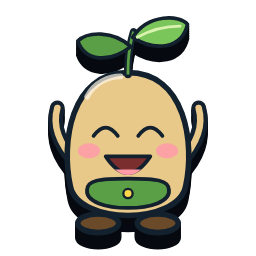
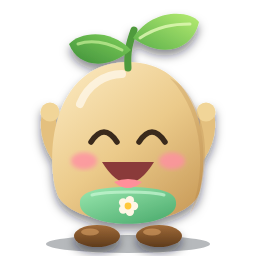
Sprig redessiné : graine dodue, yeux brillants, salopette menthe, sans contour sombre
Claude-Session: https://claude.ai/code/session_013EccGmGcBAAqujeLGmWbCi

diff --git a/Design/Characters/generate_sprig.py b/Design/Characters/generate_sprig.py
@@ -1,57 +1,95 @@
 #!/usr/bin/env python3
-"""Sprig, the garden guide: a little seed sprite with a sprout on its head. 4 expressions -> Assets/Resources/Characters/Sprig_<Expr>.png"""
+"""Sprig, the garden guide: a little seed sprite with a sprout on its head, drawn in the garden style (no dark outline: soft gradients, a soft shadow, glossy eyes).
+4 expressions -> Sprig_<Expr>.svg here and Assets/Resources/Characters/Sprig_<Expr>.png (256 px, rendered with Playwright: NODE_PATH=$(npm root -g) python3 generate_sprig.py)."""
 import os, subprocess
-O = '#13212e'
+
 OUT = '../../Assets/Resources/Characters'
-CHROME = '/opt/pw-browsers/chromium-1194/chrome-linux/chrome'
-S = 'stroke="%s" stroke-width="6" stroke-linejoin="round" stroke-linecap="round"' % O
-S4 = S.replace('6"', '4"', 1)
+INK = '#3a2a1c'
+DEFS = ('<defs>'
+        '<linearGradient id="body" x1="0.15" y1="0" x2="0.9" y2="1"><stop offset="0" stop-color="#fbe8bd"/><stop offset="0.5" stop-color="#ebca8a"/><stop offset="1" stop-color="#c89a58"/></linearGradient>'
+        '<linearGradient id="bib" x1="0" y1="0" x2="0.8" y2="1"><stop offset="0" stop-color="#9be8b0"/><stop offset="1" stop-color="#4fae70"/></linearGradient>'
+        '<linearGradient id="boot" x1="0" y1="0" x2="0" y2="1"><stop offset="0" stop-color="#a06a38"/><stop offset="1" stop-color="#5e3b1c"/></linearGradient>'
+        '<linearGradient id="leafA" x1="0" y1="1" x2="1" y2="0"><stop offset="0" stop-color="#5bb04a"/><stop offset="1" stop-color="#b6ec72"/></linearGradient>'
+        '<linearGradient id="leafB" x1="0" y1="1" x2="1" y2="0"><stop offset="0" stop-color="#3f8f3a"/><stop offset="1" stop-color="#7fd05a"/></linearGradient>'
+        '<filter id="soft" x="-20%" y="-15%" width="140%" height="140%"><feDropShadow dx="0" dy="6" stdDeviation="5" flood-color="#0c1620" flood-opacity="0.5"/></filter>'
+        '<filter id="blur"><feGaussianBlur stdDeviation="2.2"/></filter>'
+        '</defs>')
+
+def eyes(look=0, sad=False):
+    out = ''
+    for cx in (104, 152):
+        out += '<ellipse cx="%d" cy="136" rx="13.5" ry="16.5" fill="#fffdf5"/>' % cx
+        out += '<ellipse cx="%d" cy="%d" rx="9" ry="10.5" fill="%s"/>' % (cx + 1, 139 + look, INK)
+        out += '<circle cx="%d" cy="%d" r="3.6" fill="#fff"/><circle cx="%d" cy="%d" r="1.8" fill="#fff" opacity="0.85"/>' % (cx + 4, 134 + look, cx - 2, 143 + look)
+    return out
+
+def cheeks():
+    return ('<g filter="url(#blur)"><ellipse cx="84" cy="161" rx="13" ry="8.5" fill="#ff8fa3" opacity="0.8"/><ellipse cx="172" cy="161" rx="13" ry="8.5" fill="#ff8fa3" opacity="0.8"/></g>')
 
 def face(expr):
-    cheeks = '<ellipse cx="86" cy="158" rx="12" ry="8" fill="#ff9aa8" opacity="0.85"/><ellipse cx="170" cy="158" rx="12" ry="8" fill="#ff9aa8" opacity="0.85"/>'
-    def eyes(dy=0, pupil_dy=0):
-        e = ''
-        for cx in (104, 152):
-            e += '<ellipse cx="%d" cy="%d" rx="12" ry="15" fill="#fff7e8" stroke="%s" stroke-width="4"/>' % (cx, 138 + dy, O)
-            e += '<circle cx="%d" cy="%d" r="7" fill="%s"/><circle cx="%d" cy="%d" r="2.5" fill="#fff"/>' % (cx + 1, 140 + dy + pupil_dy, O, cx + 3, 136 + dy)
-        return e
     if expr == 'Happy':
-        return eyes() + cheeks + '<path d="M110 166 Q128 186 146 166" fill="#7a2e2e" %s/>' % S4
+        return eyes() + cheeks() + '<path d="M108 165 Q128 192 148 165 Q128 174 108 165 Z" fill="#8a3a3a"/><path d="M116 176 Q128 185 140 176 Q128 172 116 176 Z" fill="#ff8f9a"/>'
     if expr == 'Neutral':
-        return eyes() + cheeks + '<ellipse cx="128" cy="172" rx="8" ry="9" fill="#7a2e2e" stroke="%s" stroke-width="4"/>' % O
+        return eyes() + cheeks() + '<ellipse cx="128" cy="173" rx="7.5" ry="8.5" fill="#8a3a3a"/><ellipse cx="128" cy="177" rx="4.5" ry="3.5" fill="#ff8f9a"/>'
     if expr == 'Sad':
-        brows = '<path d="M88 124 L116 112 M168 124 L140 112" stroke="%s" stroke-width="5" stroke-linecap="round"/>' % O
-        tear = '<path d="M168 156 C162 168 174 168 168 156Z" fill="#7cc7e8" stroke="%s" stroke-width="2.5"/>' % O
-        return eyes(pupil_dy=3) + brows + cheeks + '<path d="M112 178 Q128 164 144 178" fill="none" %s/>' % S4 + tear
-    if expr == 'Cheer':
-        arcs = ''.join('<path d="M%d 142 Q%d 124 %d 142" fill="none" %s/>' % (cx - 13, cx, cx + 13, S4) for cx in (104, 152))
-        return arcs + cheeks + '<path d="M104 164 Q128 200 152 164Z" fill="#7a2e2e" %s/><path d="M114 178 Q128 190 142 178" fill="#ff9aa8"/>' % S4
+        brows = '<path d="M88 122 L116 112 M168 122 L140 112" stroke="#6a4424" stroke-width="5" stroke-linecap="round"/>'
+        tear = '<path d="M170 158 C164 170 176 170 170 158 Z" fill="#8fd6f5"/>'
+        return eyes(look=3) + brows + cheeks() + '<path d="M112 180 Q128 164 144 180" fill="none" stroke="#8a3a3a" stroke-width="5" stroke-linecap="round"/>' + tear
+    # Cheer: eyes shut in joy, a big open mouth
+    arcs = ''.join('<path d="M%d 142 Q%d 122 %d 142" fill="none" stroke="%s" stroke-width="5.5" stroke-linecap="round"/>' % (cx - 13, cx, cx + 13, INK) for cx in (104, 152))
+    return arcs + cheeks() + '<path d="M102 162 Q128 204 154 162 Z" fill="#8a3a3a"/><path d="M114 182 Q128 194 142 182 Q128 176 114 182 Z" fill="#ff8f9a"/>'
+
+def arms(expr):
+    left, right = {'Cheer': ('M72 172 Q42 142 50 112', 'M184 172 Q214 142 206 112'),
+                   'Sad': ('M74 180 Q62 206 70 222', 'M182 180 Q194 206 186 222')}.get(expr, ('M72 178 Q50 190 54 214', 'M184 178 Q206 190 202 214'))
+    out = ''
+    for d in (left, right):
+        out += '<path d="%s" fill="none" stroke="#e4c07e" stroke-width="15" stroke-linecap="round"/>' % d
+        # a little hand at the end of the arm
+        x, y = d.split()[-2], d.split()[-1]
+        out += '<circle cx="%s" cy="%s" r="9.5" fill="#f1d598"/>' % (x, y)
+    return out
 
 def svg(expr):
-    arms = {'Cheer': ('M72 170 Q44 140 52 112', 'M184 170 Q212 140 204 112'),
-            'Sad': ('M74 178 Q62 204 70 220', 'M182 178 Q194 204 186 220')}.get(expr, ('M72 176 Q50 188 54 212', 'M184 176 Q206 188 202 212'))
-    body = ('<ellipse cx="96" cy="236" rx="22" ry="10" fill="#6b4a2a" %s/><ellipse cx="160" cy="236" rx="22" ry="10" fill="#6b4a2a" %s/>' % (S, S) +
-            '<path d="%s" fill="none" stroke="%s" stroke-width="16" stroke-linecap="round"/><path d="%s" fill="none" stroke="%s" stroke-width="16" stroke-linecap="round"/>' % (arms[0], O, arms[1], O) +
-            '<path d="%s" fill="none" stroke="#e8c98a" stroke-width="7" stroke-linecap="round"/><path d="%s" fill="none" stroke="#e8c98a" stroke-width="7" stroke-linecap="round"/>' % (arms[0], arms[1]) +
-            '<path d="M128 74 C190 74 200 150 190 196 C182 238 74 238 66 196 C56 150 66 74 128 74Z" fill="#e8c98a" %s/>' % S +
-            '<path d="M84 100 C92 84 108 78 120 78" fill="none" stroke="#fff7e8" stroke-width="6" stroke-linecap="round" opacity="0.7"/>' +
-            # overalls bib
-            '<path d="M84 200 C84 190 96 188 128 188 C160 188 172 190 172 200 C176 226 80 226 84 200Z" fill="#5a9e45" %s/>' % S4 +
-            '<circle cx="128" cy="204" r="5" fill="#ffd54a" stroke="%s" stroke-width="2.5"/>' % O +
-            # sprout
-            '<path d="M128 76 C128 54 130 44 134 30" fill="none" %s/>' % S.replace('stroke-width="6"', 'stroke-width="8"') +
-            '<path d="M128 76 C128 54 130 44 134 30" fill="none" stroke="#5a9e45" stroke-width="3"/>' +
-            '<path d="M133 36 C150 10 184 12 192 22 C186 48 158 52 133 36Z" fill="#7bc65a" %s/><path d="M138 36 C156 26 170 24 184 24" fill="none" stroke="#d9f2b0" stroke-width="3" stroke-linecap="round"/>' % S4 +
-            '<path d="M131 46 C112 28 84 30 74 40 C82 62 108 64 131 46Z" fill="#5a9e45" %s/>' % S4 +
-            face(expr))
-    return '<svg xmlns="http://www.w3.org/2000/svg" viewBox="0 0 256 256" width="256" height="256">%s</svg>' % body
+    body = (
+        '<ellipse cx="128" cy="244" rx="82" ry="9" fill="#0c1620" opacity="0.3"/>'
+        '<g filter="url(#soft)">'
+        '<ellipse cx="97" cy="236" rx="23" ry="11" fill="url(#boot)"/><ellipse cx="159" cy="236" rx="23" ry="11" fill="url(#boot)"/>'
+        '<ellipse cx="90" cy="232" rx="9" ry="3.5" fill="#d9a066" opacity="0.6"/><ellipse cx="152" cy="232" rx="9" ry="3.5" fill="#d9a066" opacity="0.6"/>'
+        + arms(expr) +
+        '<path d="M128 62 C196 62 212 140 200 190 C192 232 64 232 56 190 C44 140 60 62 128 62 Z" fill="url(#body)"/>'
+        '<path d="M170 78 C206 116 206 176 190 214 C202 196 214 150 196 108 C190 94 182 84 170 78 Z" fill="#a8763a" opacity="0.22"/>'
+        '<path d="M80 104 C88 84 106 74 122 74" fill="none" stroke="#fffaf0" stroke-width="8" stroke-linecap="round" opacity="0.7"/>'
+        # overalls: a bib with a little flower pocket
+        '<path d="M80 202 C80 192 98 187 128 187 C158 187 176 192 176 202 C180 231 76 231 80 202 Z" fill="url(#bib)"/><path d="M92 195 C106 191 150 191 164 195" fill="none" stroke="#c9f6d4" stroke-width="3" stroke-linecap="round" opacity="0.7"/>'
+        '<g transform="translate(128 206)">' + ''.join('<circle cx="%g" cy="%g" r="4.2" fill="#fff6e6"/>' % (6 * __import__('math').cos(__import__('math').radians(a)), 6 * __import__('math').sin(__import__('math').radians(a))) for a in range(0, 360, 72)) + '<circle r="3.4" fill="#ffc83a"/></g>'
+        # the sprout
+        '<path d="M128 68 C127 52 129 44 134 30" fill="none" stroke="#4f9a3c" stroke-width="7" stroke-linecap="round"/>'
+        '<path d="M133 38 C152 8 190 10 199 22 C192 52 160 58 133 38 Z" fill="url(#leafA)"/><path d="M140 38 C158 26 174 24 190 24" fill="none" stroke="#e4f9b8" stroke-width="3" stroke-linecap="round" opacity="0.8"/>'
+        '<path d="M131 50 C110 28 80 32 69 44 C78 68 108 70 131 50 Z" fill="url(#leafB)"/><path d="M122 50 C106 42 90 40 78 44" fill="none" stroke="#c9f09a" stroke-width="3" stroke-linecap="round" opacity="0.7"/>'
+        '</g>' + face(expr))
+    return '<svg xmlns="http://www.w3.org/2000/svg" viewBox="0 0 256 256" width="256" height="256">%s%s</svg>\n' % (DEFS, body)
 
-os.makedirs(OUT, exist_ok=True)
-for e in ['Happy', 'Neutral', 'Sad', 'Cheer']:
-    s = svg(e)
-    open('Sprig_%s.svg' % e, 'w').write(s)
-    open('_s.html', 'w').write('<html><body style="margin:0;background:transparent">%s</body></html>' % s)
-    subprocess.run([CHROME, '--headless', '--no-sandbox', '--disable-gpu', '--hide-scrollbars', '--default-background-color=00000000',
-                    '--window-size=256,556', '--screenshot=_s.png', 'file://' + os.path.abspath('_s.html')], stdout=subprocess.DEVNULL, stderr=subprocess.DEVNULL)
-    subprocess.run(['convert', '_s.png', '-crop', '256x256+0+0', '+repage', '%s/Sprig_%s.png' % (OUT, e)])
-os.remove('_s.html'); os.remove('_s.png')
+if __name__ == '__main__':
+    os.makedirs(OUT, exist_ok=True)
+    names = ['Happy', 'Neutral', 'Sad', 'Cheer']
+    for e in names:
+        open('Sprig_%s.svg' % e, 'w').write(svg(e))
+    js = """
+const { chromium } = require('playwright');
+const fs = require('fs');
+(async () => {
+  const b = await chromium.launch();
+  const p = await b.newPage({ viewport: { width: 256, height: 256 }, deviceScaleFactor: 1 });
+  for (const e of %s) {
+    await p.setContent('<html><body style="margin:0;background:transparent">' + fs.readFileSync('Sprig_' + e + '.svg', 'utf8') + '</body></html>');
+    await p.screenshot({ path: '%s/Sprig_' + e + '.png', omitBackground: true, clip: { x: 0, y: 0, width: 256, height: 256 } });
+  }
+  await b.close();
+})();
+""" % (names, OUT)
+    open('_render.js', 'w').write(js)
+    env = dict(os.environ, NODE_PATH=subprocess.check_output(['npm', 'root', '-g']).decode().strip())
+    subprocess.run(['node', '_render.js'], check=True, env=env)
+    os.remove('_render.js')
+    print('Sprig:', ', '.join(names))

diff --git a/Design/extrude.py b/Design/extrude.py
@@ -14,7 +14,7 @@ SETS = [
     ('Icons/glyphs', '../Assets/Resources/Icons/UpgradeGlyphs', None, 1.75),
     ('Icons/upgrades', '../Assets/Resources/Icons/Upgrades'),
     ('UI', '../Assets/Resources/Icons', ['Shield', 'ShieldShard']),
-    ('Characters', '../Assets/Resources/Characters'),
+    # (Sprig, Characters/, is drawn flat with soft shadows now: Design/Characters/generate_sprig.py)
     ('Title', '../Assets/Resources/Title'),
 ]
 OUT = 'extruded'

diff --git a/docs/DECISIONS.md b/docs/DECISIONS.md
@@ -9747,3 +9747,6 @@ Ceci couvre l'intégralité des retours de playtest de cette liste.
 - Même traitement que les fertilizers, les ennemis et les sprouts : plus de tuile colorée arrondie ni de contour sombre. Il n'y avait pas de SVG : `Design/Weather/` garde les PNG d'origine (128 px, tuiles) comme source, et `Design/Weather/bare_weather.py` les traite : retire l'anneau sombre de la tuile, fait croître le fond depuis ce qui touche l'anneau (il s'arrête aux contours sombres du pictogramme), pèle le contour extérieur du dessin, supprime les petits îlots résiduels et les bords du canevas, puis cadre le dessin dans son carré avec une ombre douce. Écrit `Assets/Resources/Icons/Weather/<Nom>.png`. **Aurora** (une scène de nuit : le fond sombre mangeait le dessin) est redessinée à la main (`Design/Weather/Aurora.svg`, rideaux et montagne).
 - Imperfections connues : DiscoLights perd ses faisceaux (la boule reste) ; quelques petits traits sombres subsistent près de Heatwave, IndianSummer, VentFan et Thermostat ; les contours intérieurs (porte de FreezerLeak, pot de Compost) restent. L'onglet Weather de la Collection, la carte météo et le bandeau « Coming up » utilisent ces images. Non vérifié dans Unity.
 - Icônes de météo **redessinées de zéro** (demande de l'auteur, le détourage des anciennes tuiles laissait des défauts) : `Design/Weather/generate_weather.py` dessine les 23 pictogrammes en SVG (`svg/`), dans le style jardin : formes pleines en dégradés doux, ombre douce sous tout le dessin, aucune tuile ni contour sombre (nuages, soleil, gouttes, flocons, feuille… avec les couleurs du jeu) ; `render_weather.js` (Playwright) les rend en 128 px dans `Assets/Resources/Icons/Weather/` (mêmes noms). Le détourage (`bare_weather.py`) et les PNG d'origine sont supprimés. Non vérifié dans Unity.
+
+## 2026-11-15 — Sprig redessiné
+- `Design/Characters/generate_sprig.py` réécrit (ancien script : navy outline + extrusion) : Sprig est une graine dodue en dégradé crème-ambre, avec reflet, ombrage à droite et ombre douce ; une pousse à deux feuilles dégradées (nervures claires) ; de grands yeux brillants (reflets blancs) et des joues roses floutées ; une salopette-bavette menthe avec une petite fleur en poche ; bras ronds avec mains, bottes brunes brillantes ; **aucun contour sombre**. Les quatre humeurs (Happy, Neutral, Sad avec sourcils et larme, Cheer yeux fermés et bras levés) gardent leurs noms de fichiers (`Sprig_<Mood>.png`, 256 px), donc le menu principal et les bulles de Sprig n'ont pas besoin de code. `Characters` sort de `extrude.py` (plus d'extrusion pour Sprig ; le logo du titre y reste). Non vérifié dans Unity.
